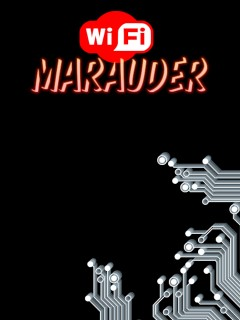
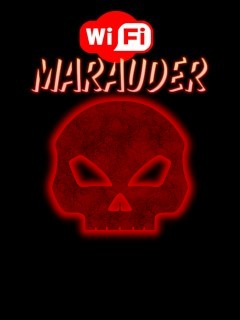
fixed more boot screens

diff --git a/Icons for Marauder/README.md b/Icons for Marauder/README.md
@@ -1,5 +1,13 @@
 <b>Custom icons for wifi marauder</b>
 
+## .bmp icons for the menu of marauder
+
+<b>Custom icons are a little bit more tricky than the boot screens, but it can be done in a few steps. Use these bmp files <a href=https://www.imageconvert.org/bmp-to-xbm>here</a> to convert them to XBM code.
+You will need to make sure the bmp files are 20 pixels x 20 pixels before use the online converter tool. For a good looking menu icon you will want to remove the background from the bmp file and still save it as .bmp file. <br> The code that the converter gives you will be used to replace code in the assets.cpp file just like we do when making custom boot screens. I will post a image showing where the code is to make it simple. Keep in mind the code in the assets.cpp file at the top of the file are the menu items. they are labeled to match the icon. Try to keep the layout of the full bit of code just as is with the name of the menu item so you will not loose track of what is what. </b>
+
+<br> <br>
+## Picture of the menu code.
+<p>Picture coming soon</p>
 
 <p align="left"> <img src="https://komarev.com/ghpvc/?username=atomnft&label=Profile%20views&color=0e75b6&style=flat" alt="atomnft" /> </p>
 
